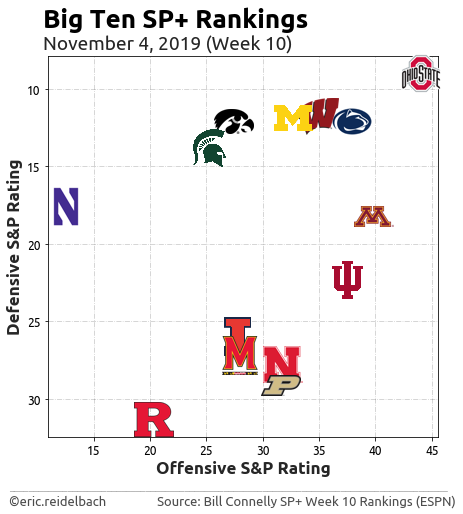
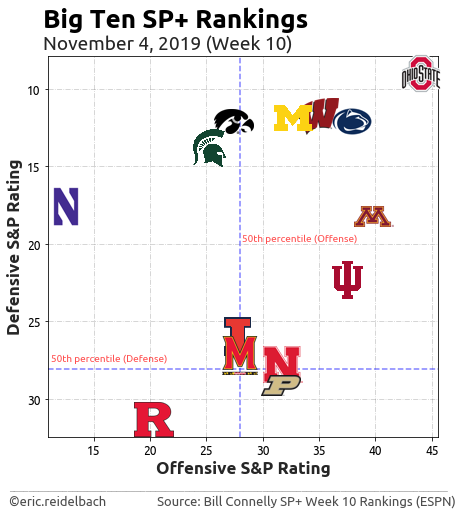
added labels to 50% lines

diff --git a/code_python/visualize_s&p.py b/code_python/visualize_s&p.py
@@ -209,6 +209,10 @@ for x0, y0, logo in zip(x, y, logos):
     
 # draw median lines
 plt.axhline(df_sp['defense'].median(), color = 'blue', 
-            linestyle = '--', alpha = 0.5, label = '50th Percentile') # horizontal line
+            linestyle = '--', alpha = 0.5) # horizontal line
 plt.axvline(df_sp['offense'].median(), color = 'blue', 
-            linestyle = '--', alpha = 0.5, label = '50th Percentile') # vertical line
+            linestyle = '--', alpha = 0.5) # vertical line
+plt.text(x = 11.2, y = df_sp['defense'].median() - 0.5, 
+         s = '50th percentile (Defense)', alpha = 0.7, color = 'red')
+plt.text(x = df_sp['offense'].median() + 0.2, y = 19.8, 
+         s = '50th percentile (Offense)', alpha = 0.7, color = 'red')
